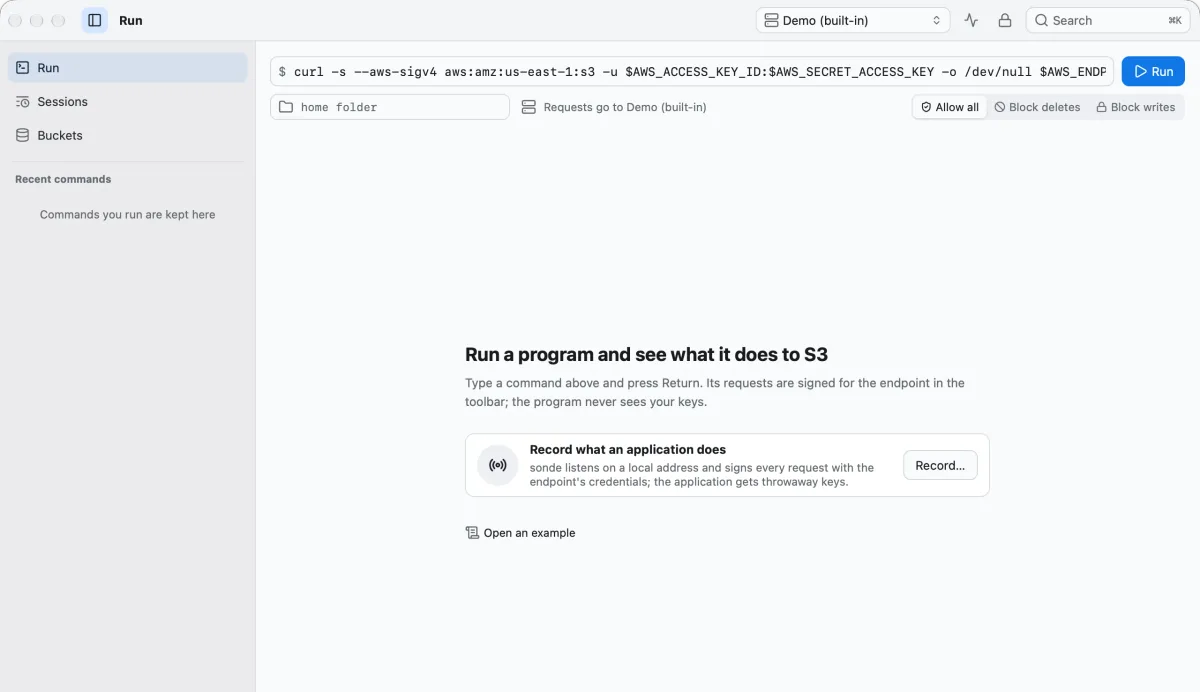
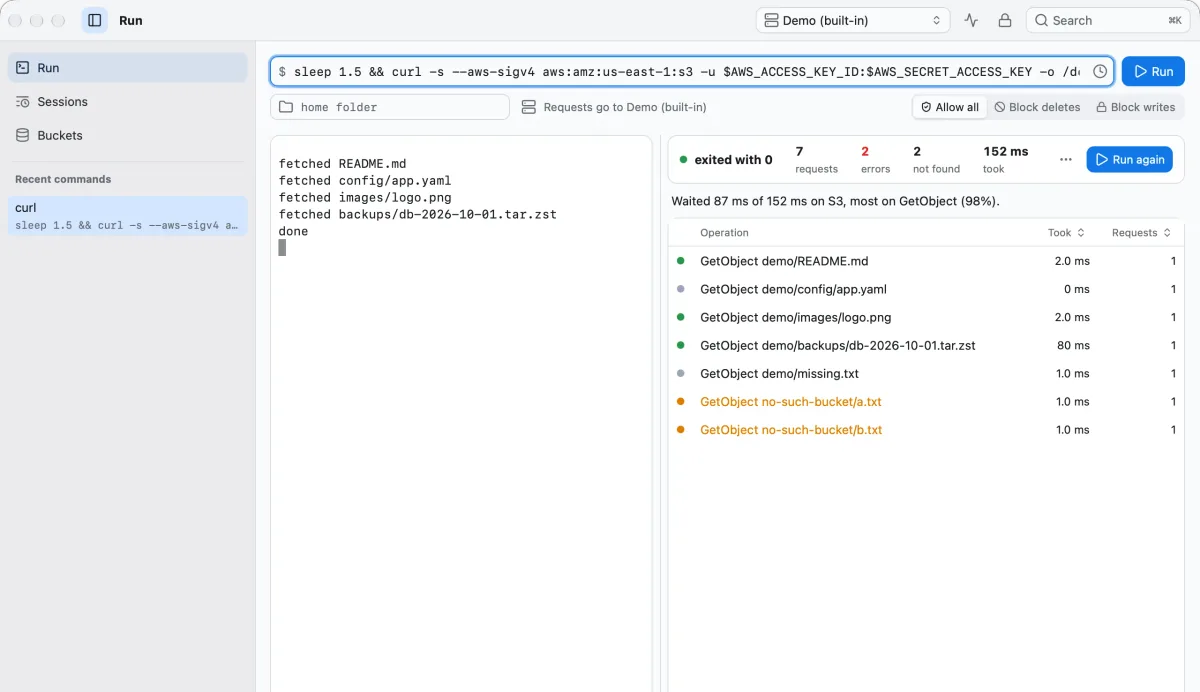
sonde: show the completed Run screen
The first recapture used 02-run, the empty Run screen, while the
copy described nine requests. Use 02b-ran (seven requests, two
errors, output and operations) and park the pointer off the Run
button so its tooltip is not in the shot.

Amp-Thread-ID: https://ampcode.com/threads/T-01a1cd2c-99e2-719f-b3c5-fb09f182b5c1

diff --git a/src/content/products/sonde.ts b/src/content/products/sonde.ts
@@ -84,7 +84,7 @@ export default defineProduct({
     showcases: [
       {
         src: "/assets/sonde-run-en.webp",
-        alt: "The Run screen: a shell command’s output on the left, and beside it the nine requests it made to the demo store, listed as operations with their time, two of them failed.",
+        alt: "The Run screen: a shell command’s output on the left, and beside it the seven requests it made to the demo store, listed as operations with their time, two of them failed.",
         width: 2560,
         height: 1476,
         asOf: "v16.0.0",
@@ -239,7 +239,7 @@ export default defineProduct({
     showcases: [
       {
         src: "/assets/sonde-run-en.webp",
-        alt: "“运行”页面（英文界面）：左边是一条 shell 命令的输出，右边把它对演示存储发出的 9 个请求列成操作，带用时，其中两个失败。",
+        alt: "“运行”页面（英文界面）：左边是一条 shell 命令的输出，右边把它对演示存储发出的 7 个请求列成操作，带用时，其中两个失败。",
         width: 2560,
         height: 1476,
         asOf: "v16.0.0",

diff --git a/scripts/captures/README.md b/scripts/captures/README.md
@@ -8,17 +8,17 @@ at quality 82 into `public/assets/` where needed, then run `npm run assets:image
 Board games (Chessboard, Goban) have their own committed scripts:
 `scripts/board-apps.mjs`, `capture-board-screenshots.mjs`, `record-board-demos.mjs`.
 
-| Product            | Recipe                                                                                                      | Source                                                           | Notes                                                                                                                                                                                                                                                                                                                                                                 |
-| ------------------ | ----------------------------------------------------------------------------------------------------------- | ---------------------------------------------------------------- | --------------------------------------------------------------------------------------------------------------------------------------------------------------------------------------------------------------------------------------------------------------------------------------------------------------------------------------------------------------------- |
-| Readout            | `node scripts/captures/readout.mjs ../readout`                                                              | `docs/screenshots/` gallery, real macOS captures                 | Crops the window out of the gallery's backdrop; bounds measured at v5.2.0, unchanged at v6.0.0 (the v6 gallery has the same window placement). `asOf` v6.0.0.                                                                                                                                                                                                         |
-| World Clock        | `APP_REPO=../world-clock node scripts/captures/world-clock.cjs`                                             | the unpacked `extension/` in Chromium, 3x                        | Cities written to the extension's own storage; fixed clock. The no-JS fallback is captured at 3x (1020px) so it stays sharp at the demo's 400px.                                                                                                                                                                                                                      |
-| World Clock themes | the repo's `scripts/store-shots/shots-themes.mjs`, composed at 2x without the headline                      | real popup in every theme                                        | Patch a copy: `newPage({ deviceScaleFactor: 2 })`, drop the `<h1>`, 1240×560 canvas, output `themes.png`.                                                                                                                                                                                                                                                             |
-| Easier Bookmarks   | `APP_REPO=../easier-bookmarks node scripts/captures/easier-bookmarks.mjs`                                   | the store zip, unpacked, in Chromium                             | Real `chrome.bookmarks`; favicons from the repo's demo server. Search is the top 1425px of a 5x (1900px) panel, light and dark, so the 820px showcase clears 2x.                                                                                                                                                                                                      |
-| Bilingual          | the repo's `tools/store-images/shots.js`                                                                    | real `content.js` on a sample page; translation backend scripted | Patch a copy to keep the 2x render and crop the 76 px (152 px at 2x) store title strip instead of resizing to 1280×800. Captured at 4.0.0; captions say the translation was written for the image.                                                                                                                                                                    |
-| Sonde              | `cd app && nsh test tests/shots.test.tsx --target macos` (via `scripts/shots.sh`)                           | the app's own shots test, 2x                                     | Park the pointer off the example button before `03-session` (its native tooltip otherwise sits in the shot). Crop the test window's black footer; the app content is 2560×1476. Use `wide-03-session`, `wide-02-run`, `wide-03h-runs`, `wide-03g-time`, `dark-03g-time`; add `asOf` v16.0.0.                                                                          |
-| Goban Studio       | `scripts/captures/goban-studio/` (`serve.mjs` serves the built `frontend/dist`; `today.cjs` uses `cap.cjs`) | the app's UI in Chromium, as its `scripts/ui-test.mjs` does      | First run lands on Today (v14+); answers "Not now" to the placement offer on Practice (v10+) and seeds four analysed games under `goban9:profile.json` (as its `ui-tests/practice-focus.mjs`); `CLOCK=2026-11-05T09:00` for the morning greeting; `PW_CHROMIUM` names the browser binary. Recaptured at v14.0.0. No KataGo in the browser: no game or review screens. |
-| Paper Sudoku       | the app's `StoreScreenshotsTest` (`docs/store/`)                                                            | Android screenshot test                                          | Plain captures; used as they are. The Chinese showcases remain 540×1200 (1.93x at 280px), accepted by the owner rather than opening an Android pass.                                                                                                                                                                                                                  |
-| Storage Agent      | `node scripts/shots.mjs` (the repo's visual test)                                                           | Electron window at 2x, fake S3 and fake model                    | Captioned as a visual test with a scripted model. The window is 1180×848 points on a 2x display; the content is 2360×1396.                                                                                                                                                                                                                                            |
-| PageWise           | `npm run dev` then `npm run ui:shots` (with `deviceScaleFactor: 2`)                                         | the app's UI harness, sample PDF and scripted answer             | Seed `preferences.json` with `{ app: { theme: "light" } }`; the harness defaults to dark. `07-answered` is the hero; the caption says it is an illustration with a sample document and a scripted answer. `asOf` v24.0.0.                                                                                                                                             |
-| World Machine      | the release app on macOS; `screencapture -x` at 2x                                                          | Tiny Society's morning on day 21, from the demo world            | Set `WORLD_MACHINE_LIBRARY_DIR` and open `harbour-town.world` (generated by `cargo run -p tiny-society --example demo_world`). The morning letter, today's choice, the overnight care and the find are the hero; captions say it was captured on macOS. `asOf` v0.30.0.                                                                                               |
-| Douban Ratings     | `design/store-images/build.sh`, rendered at 2x                                                              | the store composition, sample ratings                            | Render `s1.html` at 1280×800 with `scale: 2` (2560×1600) and capture the panel at 3x so the card stays 1:1. The image remains an illustration and says so. `asOf` v1.7.                                                                                                                                                                                               |
+| Product            | Recipe                                                                                                      | Source                                                           | Notes                                                                                                                                                                                                                                                                                                                                                                                   |
+| ------------------ | ----------------------------------------------------------------------------------------------------------- | ---------------------------------------------------------------- | --------------------------------------------------------------------------------------------------------------------------------------------------------------------------------------------------------------------------------------------------------------------------------------------------------------------------------------------------------------------------------------- |
+| Readout            | `node scripts/captures/readout.mjs ../readout`                                                              | `docs/screenshots/` gallery, real macOS captures                 | Crops the window out of the gallery's backdrop; bounds measured at v5.2.0, unchanged at v6.0.0 (the v6 gallery has the same window placement). `asOf` v6.0.0.                                                                                                                                                                                                                           |
+| World Clock        | `APP_REPO=../world-clock node scripts/captures/world-clock.cjs`                                             | the unpacked `extension/` in Chromium, 3x                        | Cities written to the extension's own storage; fixed clock. The no-JS fallback is captured at 3x (1020px) so it stays sharp at the demo's 400px.                                                                                                                                                                                                                                        |
+| World Clock themes | the repo's `scripts/store-shots/shots-themes.mjs`, composed at 2x without the headline                      | real popup in every theme                                        | Patch a copy: `newPage({ deviceScaleFactor: 2 })`, drop the `<h1>`, 1240×560 canvas, output `themes.png`.                                                                                                                                                                                                                                                                               |
+| Easier Bookmarks   | `APP_REPO=../easier-bookmarks node scripts/captures/easier-bookmarks.mjs`                                   | the store zip, unpacked, in Chromium                             | Real `chrome.bookmarks`; favicons from the repo's demo server. Search is the top 1425px of a 5x (1900px) panel, light and dark, so the 820px showcase clears 2x.                                                                                                                                                                                                                        |
+| Bilingual          | the repo's `tools/store-images/shots.js`                                                                    | real `content.js` on a sample page; translation backend scripted | Patch a copy to keep the 2x render and crop the 76 px (152 px at 2x) store title strip instead of resizing to 1280×800. Captured at 4.0.0; captions say the translation was written for the image.                                                                                                                                                                                      |
+| Sonde              | `cd app && nsh test tests/shots.test.tsx --target macos` (via `scripts/shots.sh`)                           | the app's own shots test, 2x                                     | Park the pointer off the example button before `03-session` (its native tooltip otherwise sits in the shot). Crop the test window's black footer; the app content is 2560×1476. Use `wide-03-session`, `wide-02b-ran`, `wide-03h-runs`, `wide-03g-time`, `dark-03g-time`; add `asOf` v16.0.0. Before `02b-ran`, hover `id:run-ended` so the Run button’s tooltip stays out of the shot. |
+| Goban Studio       | `scripts/captures/goban-studio/` (`serve.mjs` serves the built `frontend/dist`; `today.cjs` uses `cap.cjs`) | the app's UI in Chromium, as its `scripts/ui-test.mjs` does      | First run lands on Today (v14+); answers "Not now" to the placement offer on Practice (v10+) and seeds four analysed games under `goban9:profile.json` (as its `ui-tests/practice-focus.mjs`); `CLOCK=2026-11-05T09:00` for the morning greeting; `PW_CHROMIUM` names the browser binary. Recaptured at v14.0.0. No KataGo in the browser: no game or review screens.                   |
+| Paper Sudoku       | the app's `StoreScreenshotsTest` (`docs/store/`)                                                            | Android screenshot test                                          | Plain captures; used as they are. The Chinese showcases remain 540×1200 (1.93x at 280px), accepted by the owner rather than opening an Android pass.                                                                                                                                                                                                                                    |
+| Storage Agent      | `node scripts/shots.mjs` (the repo's visual test)                                                           | Electron window at 2x, fake S3 and fake model                    | Captioned as a visual test with a scripted model. The window is 1180×848 points on a 2x display; the content is 2360×1396.                                                                                                                                                                                                                                                              |
+| PageWise           | `npm run dev` then `npm run ui:shots` (with `deviceScaleFactor: 2`)                                         | the app's UI harness, sample PDF and scripted answer             | Seed `preferences.json` with `{ app: { theme: "light" } }`; the harness defaults to dark. `07-answered` is the hero; the caption says it is an illustration with a sample document and a scripted answer. `asOf` v24.0.0.                                                                                                                                                               |
+| World Machine      | the release app on macOS; `screencapture -x` at 2x                                                          | Tiny Society's morning on day 21, from the demo world            | Set `WORLD_MACHINE_LIBRARY_DIR` and open `harbour-town.world` (generated by `cargo run -p tiny-society --example demo_world`). The morning letter, today's choice, the overnight care and the find are the hero; captions say it was captured on macOS. `asOf` v0.30.0.                                                                                                                 |
+| Douban Ratings     | `design/store-images/build.sh`, rendered at 2x                                                              | the store composition, sample ratings                            | Render `s1.html` at 1280×800 with `scale: 2` (2560×1600) and capture the panel at 3x so the card stays 1:1. The image remains an illustration and says so. `asOf` v1.7.                                                                                                                                                                                                                 |
